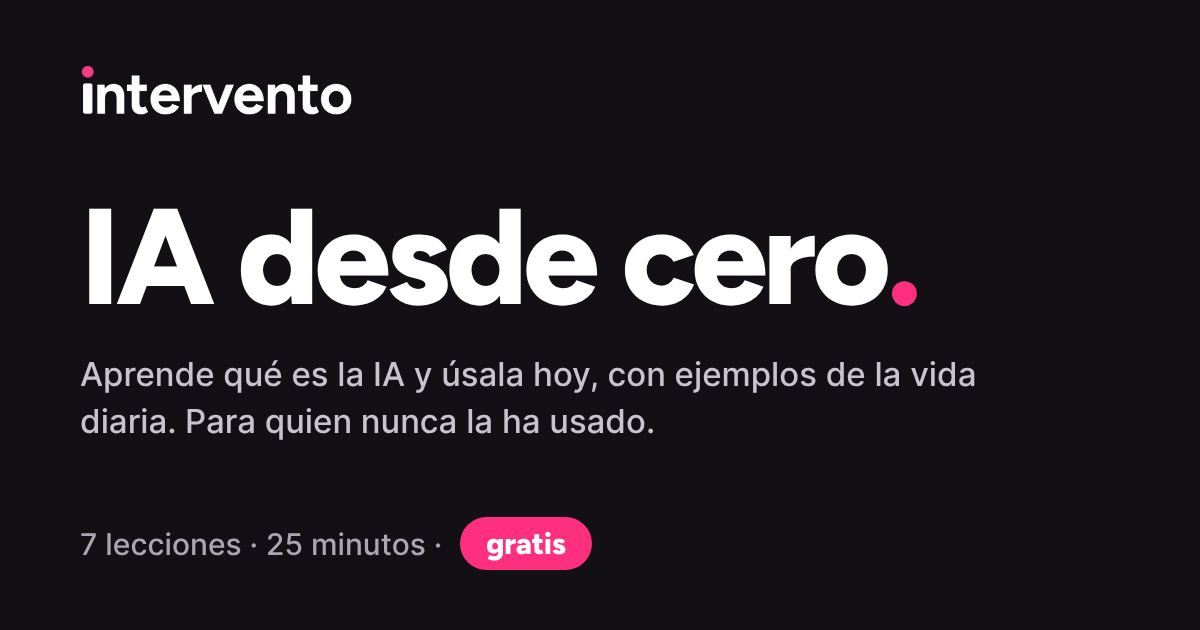
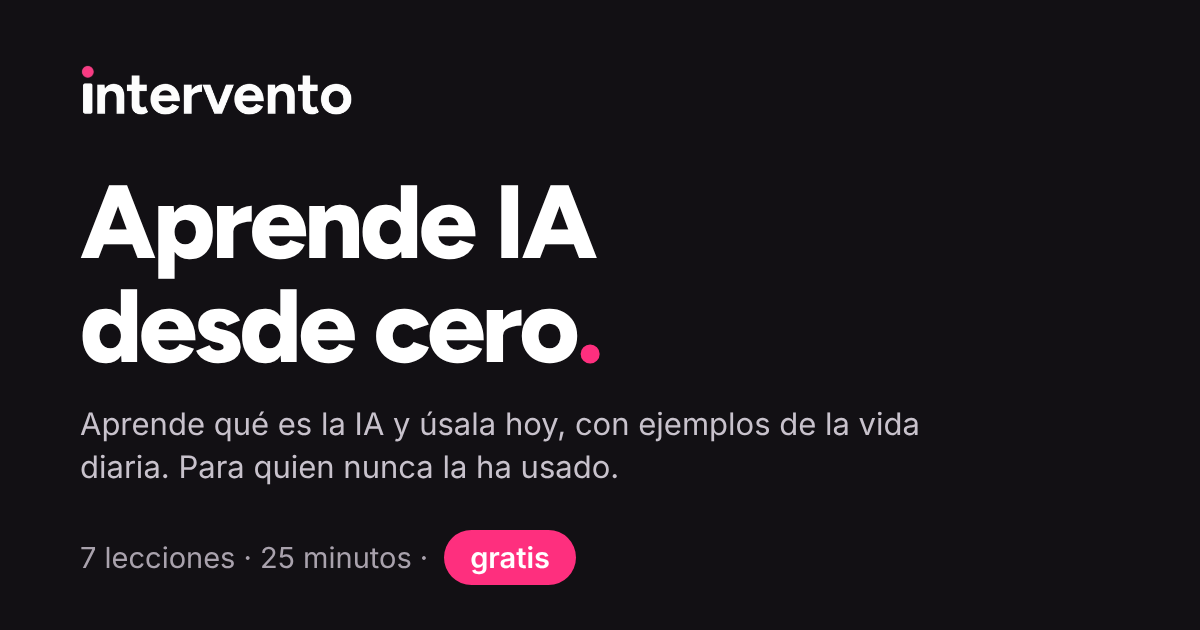
Usa el nombre oficial "Aprende IA desde cero" en todo el sitio
Claude-Session: https://claude.ai/code/session_01BV7MrN1BRH3p1gt2RYJMMr

Changed region(s): [[0.0617, 0.2714, 0.8325, 0.6937], [0.0617, 0.8143, 0.4933, 0.9349], [0.0617, 0.7238, 0.5242, 0.7841]]

diff --git a/ia/index.html b/ia/index.html
@@ -3,12 +3,12 @@
 <head>
 <meta charset="utf-8">
 <meta name="viewport" content="width=device-width, initial-scale=1, viewport-fit=cover">
-<title>IA desde cero | Intervento</title>
+<title>Aprende IA desde cero | Intervento</title>
 <meta name="description" content="Aprende a usar la IA desde cero en 25 minutos: 7 lecciones cortas, con ejemplos y ejercicios. Gratis.">
 <link rel="canonical" href="https://getintervento.com/ia/">
 <meta property="og:type" content="website">
 <meta property="og:url" content="https://getintervento.com/ia/">
-<meta property="og:title" content="IA desde cero">
+<meta property="og:title" content="Aprende IA desde cero">
 <meta property="og:description" content="7 lecciones cortas para entender la IA y tener tu primera conversación con ella. Gratis.">
 <meta property="og:image" content="https://getintervento.com/ia/og.png">
 <link rel="icon" href="favicon.svg" type="image/svg+xml">
@@ -811,7 +811,7 @@ html{scroll-behavior:smooth}
 <div id="course" hidden>
   <header class="appbar"><div class="appbar-in">
[1 lines of base64/hex data omitted]
-    <span class="cname">IA desde cero</span>
+    <span class="cname">Aprende IA desde cero</span>
     <span class="sp"></span>
     <div class="meter" aria-live="polite"><span class="ring"><svg viewBox="0 0 36 36" aria-hidden="true"><circle cx="18" cy="18" r="15.5"/><circle id="mring" cx="18" cy="18" r="15.5" pathLength="100"/></svg></span><span class="mt"><b>Tu progreso</b><span id="mtxt"></span></span><span class="bar" hidden><i id="mbar"></i></span></div>
     <button class="menu-btn" id="menubtn" aria-expanded="false" aria-controls="side"><svg viewBox="0 0 24 24" aria-hidden="true"><path d="M4 7h16M4 12h16M4 17h16"/></svg>Contenido</button>
@@ -1018,7 +1018,7 @@ html{scroll-behavior:smooth}
       <p class="st">Revisa tu correo en unos minutos. Si no te llega, ábrelo y descárgalo aquí.</p>
       <details class="sumdet"><summary>Ver y descargar mi resumen</summary>
         <div class="sum-out" id="sumout">
-        <div class="sum-head"><img id="sumlogo" alt="Intervento" height="22"><span>Resumen · IA desde cero</span></div>
+        <div class="sum-head"><img id="sumlogo" alt="Intervento" height="22"><span>Resumen · Aprende IA desde cero</span></div>
         <ol class="sum-list">
           <li><b>¿Qué es la IA?</b> Programas que aprendieron viendo millones de ejemplos, no siguiendo instrucciones paso a paso. Como un niño que aprende qué es un perro.</li>
           <li><b>Cómo responde.</b> Predice qué palabra sigue, como el autocompletar del celular pero gigante. No busca en internet, y sonar probable no es lo mismo que ser verdad.</li>
@@ -1279,7 +1279,7 @@ html{scroll-behavior:smooth}
         enter();
       };
       if(hp){done(false);return}
-      fetch('https://formspree.io/f/xqerllep',{method:'POST',headers:{'Accept':'application/json','Content-Type':'application/json'},body:JSON.stringify({email:v,source:'ia-desde-cero',_subject:'Resumen IA desde cero'})})
+      fetch('https://formspree.io/f/xqerllep',{method:'POST',headers:{'Accept':'application/json','Content-Type':'application/json'},body:JSON.stringify({email:v,source:'ia-desde-cero',_subject:'Resumen Aprende IA desde cero'})})
         .then(function(r){done(r.ok)}).catch(function(){done(false)});
     });
     $('sumprint').addEventListener('click',function(){

diff --git a/aprende/index.html b/aprende/index.html
@@ -5,12 +5,12 @@
 <meta name="viewport" content="width=device-width, initial-scale=1.0">
 <meta name="theme-color" content="#FFFFFF">
 <title>Cursos de IA gratis | Intervento</title>
-<meta name="description" content="Cursos cortos y gratis para aprender IA a tu ritmo: IA desde cero y Seguridad en tiempos de IA. Sin registro. De Intervento, miembro del Observatorio Panameño de IA.">
+<meta name="description" content="Cursos cortos y gratis para aprender IA a tu ritmo: Aprende IA desde cero y Seguridad en tiempos de IA. Sin registro. De Intervento, miembro del Observatorio Panameño de IA.">
 <link rel="canonical" href="https://getintervento.com/aprende/">
 <meta property="og:type" content="website">
 <meta property="og:url" content="https://getintervento.com/aprende/">
 <meta property="og:title" content="Aprende IA a tu ritmo · Intervento">
-<meta property="og:description" content="Cursos cortos y gratis: IA desde cero y Seguridad en tiempos de IA. Sin registro.">
+<meta property="og:description" content="Cursos cortos y gratis: Aprende IA desde cero y Seguridad en tiempos de IA. Sin registro.">
 <meta property="og:image" content="https://getintervento.com/og-image.jpg">
 <meta property="og:locale" content="es_PA">
 <meta name="twitter:card" content="summary_large_image">
@@ -468,7 +468,7 @@
     <div class="ccards">
       <article class="ccard" data-key="iadc-v4" data-total="7" data-ids="m0,m2,m3,m5,m1,m4,m6">
         <div class="ctop"><span class="tag">Gratis</span><span class="lvl">Principiante</span></div>
-        <h3>IA desde cero</h3>
+        <h3>Aprende IA desde cero</h3>
         <p class="prom">De no saber qué es la IA a tener tu primera conversación con ella.</p>
         <p class="cmeta">7 lecciones · 25 minutos</p>
         <div class="cprog" hidden><span class="pb"><i></i></span><span class="pt"></span></div>
@@ -491,7 +491,7 @@
     <span class="chip">Por dónde empezar</span>
     <h2 style="margin-top:22px;">Una ruta simple.</h2>
     <div class="ruta">
-      <a class="rstep" href="/ia/" data-curso="ia-desde-cero"><span class="rn">1</span><span class="rq">¿Nunca has usado IA?</span><b>Empieza por IA desde cero</b><span class="go">Ir al curso →</span></a>
+      <a class="rstep" href="/ia/" data-curso="ia-desde-cero"><span class="rn">1</span><span class="rq">¿Nunca has usado IA?</span><b>Empieza por Aprende IA desde cero</b><span class="go">Ir al curso →</span></a>
       <a class="rstep" href="/seguridad/" data-curso="seguridad-ia"><span class="rn">2</span><span class="rq">¿Ya la usas?</span><b>Sigue con Seguridad en tiempos de IA</b><span class="go">Ir al curso →</span></a>
     </div>
   </div>

diff --git a/seguridad/index.html b/seguridad/index.html
@@ -730,7 +730,7 @@ html{scroll-behavior:smooth}
 #course.final .shell{grid-template-columns:minmax(0,1fr)}
 
 
-/* ===== Seguridad en tiempos de IA: añadidos sobre el reproductor de IA desde cero ===== */
+/* ===== Seguridad en tiempos de IA: añadidos sobre el reproductor de Aprende IA desde cero ===== */
 /* módulo 1 en blanco: mismo reproductor, contraste invertido */
 .stage.modw{background:#fff;color:var(--ink);border-bottom:1px solid var(--line)}
 .stage.modw .chlbl{color:var(--mute)}
@@ -1280,7 +1280,7 @@ footer .m a{color:var(--mute-d)}
         <a class="bc" href="https://wa.me/50762440096?text=Hola%2C%20termin%C3%A9%20el%20curso%20Seguridad%20en%20tiempos%20de%20IA%20y%20quiero%20reservar%20una%20clase%20individual%20%28%2450%20la%20hora%29." target="_blank" rel="noopener"><span class="k2">Uno a uno</span><b>Clase individual</b><span class="price">$50 <small>la hora</small></span><span class="d">Una hora, a tu ritmo. Revisamos tus cuentas, tus configuraciones y tus dudas.</span><span class="go">Reservar mi clase →</span></a>
         <a class="bc" href="https://wa.me/50762440096?text=Hola%2C%20termin%C3%A9%20el%20curso%20Seguridad%20en%20tiempos%20de%20IA%20y%20quiero%20llevar%20una%20conferencia%20sobre%20seguridad%20e%20IA%20a%20mi%20equipo%20o%20evento." target="_blank" rel="noopener"><span class="k2">Empresas, gremios y eventos</span><b>Conferencias</b><span class="d">Charlas sobre seguridad y uso responsable de la IA para eventos, universidades y gremios.</span><span class="go">Llevar una a mi evento →</span></a>
       </div>
-      <div class="pfoot"><a href="/aprende/" id="allcourses">Ver todos los cursos</a><a href="/ia/" id="tocourse1">¿Todavía no usas IA? Empieza por IA desde cero</a><button type="button" id="again">Repasar las lecciones</button></div>
+      <div class="pfoot"><a href="/aprende/" id="allcourses">Ver todos los cursos</a><a href="/ia/" id="tocourse1">¿Todavía no usas IA? Empieza por Aprende IA desde cero</a><button type="button" id="again">Repasar las lecciones</button></div>
     </div>
     </div>
   </div>

diff --git a/index.html b/index.html
@@ -616,7 +616,7 @@ gtag('config', 'G-1RHJ39L3EB');
     <div class="hcursos">
       <a class="hcurso" href="ia/" id="cursoSeccionCta">
         <span class="rl">Principiante</span>
-        <h3>IA desde cero</h3>
+        <h3>Aprende IA desde cero</h3>
         <p>De no saber qué es la IA a tener tu primera conversación con ella.</p>
         <span class="hm">7 lecciones · 25 minutos · gratis</span>
         <span class="go">Empezar el curso →</span>
